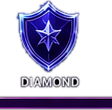
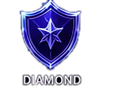
Member polish: clean rank badges, 2×2 stats bar, gold section headers
- Re-slice all 6 loyalty rank badges (bronze→VIP) tight to shield+label,
  cutting off the progress-bar line baked into the previous slices; the
  screen already renders its own loyalty progress bar, so the duplicate
  is removed. Badges normalized to uniform height with transparent top
  pad so labels bottom-align in the grid.
- Member home stats bar reflows to a 2×2 grid on phones (4-across on
  wide screens) so the Loyalty Points cell no longer runs off-screen.
- Gold ornamented section headers on the membership screen.

Claude-Session: https://claude.ai/code/session_01ADwVEMnuAZygKPZ7Pb8UgW

diff --git a/hitmans_vip_membership_app/src/styles.css b/hitmans_vip_membership_app/src/styles.css
@@ -3636,3 +3636,41 @@ button {
 .mem-penalty.trespass strong { color: #ffb060; }
 .mem-penalty span { color: #f4d6de; font-size: 13px; }
 .mem-penalty small { color: #c99; font-size: 11px; }
+
+/* ── Member home: live stats strip (design 5) ── */
+.member-statsbar {
+  display: grid; grid-template-columns: 1fr 1fr; gap: 6px; margin: 16px auto 0; max-width: 720px;
+  padding: 12px; border-radius: 16px; border: 1px solid rgba(176,107,255,.42);
+  background: linear-gradient(180deg, rgba(30,10,48,.92), rgba(12,4,22,.94));
+  box-shadow: 0 0 22px rgba(150,60,255,.22), inset 0 1px 0 rgba(255,255,255,.05);
+}
+@media (min-width: 620px) { .member-statsbar { grid-template-columns: repeat(4, 1fr); } }
+.msb-cell { display: flex; align-items: center; gap: 9px; background: rgba(255,255,255,.03); border: 1px solid rgba(176,107,255,.18);
+  border-radius: 12px; cursor: pointer; padding: 9px 10px; color: inherit; text-align: left; min-width: 0; }
+.msb-cell:not(button) { cursor: default; }
+.msb-ic { font-size: 20px; line-height: 1; flex: 0 0 auto; filter: drop-shadow(0 0 6px currentColor); }
+.msb-ic.rewards { color: #ff5ce0; }
+.msb-ic.status { color: #52ffa8; }
+.msb-ic.entry  { color: #c98bff; }
+.msb-ic.pts    { color: #ffd66b; }
+.msb-text { display: flex; flex-direction: column; min-width: 0; }
+.msb-label { font-size: 9px; letter-spacing: .1em; color: #9a86c8; font-weight: 800; white-space: nowrap; }
+.msb-val { font-size: 14px; font-weight: 900; color: #fff; white-space: nowrap; }
+.msb-val.pink { color: #ff8be6; } .msb-val.gold { color: #ffd66b; }
+.msb-val.ok { color: #52ffa8; } .msb-val.off { color: #ff7a92; }
+.msb-div { display: none; }
+
+/* ── Gold ornamented section headers (design 4) ── */
+.perks h3, .loyalty h3, .prefs h3 {
+  text-align: center; color: #ffd66b; text-transform: uppercase; letter-spacing: .14em;
+  font-size: 15px; font-weight: 900; margin: 0 0 14px;
+  text-shadow: 0 0 10px rgba(255,180,60,.5), 0 0 20px rgba(255,90,40,.22);
+  display: flex; align-items: center; justify-content: center; gap: 12px;
+}
+.perks h3::before, .perks h3::after,
+.loyalty h3::before, .loyalty h3::after,
+.prefs h3::before, .prefs h3::after {
+  content: ""; flex: 1 1 auto; max-width: 60px; height: 2px; border-radius: 2px;
+  background: linear-gradient(90deg, transparent, #b06bff);
+}
+.perks h3::after, .loyalty h3::after, .prefs h3::after { background: linear-gradient(90deg, #b06bff, transparent); }

diff --git a/hitmans_vip_membership_app/src/main.jsx b/hitmans_vip_membership_app/src/main.jsx
@@ -1600,6 +1600,41 @@ function HomeScreen({ role, session, navigate }) {
           </div>
         </AppPanel>
       </div>
+      {role.id === 'member' && <MemberStatsBar navigate={navigate} />}
+    </div>
+  );
+}
+
+// Live stats strip under the member menu (design 5): rewards, status, last entry,
+// loyalty points — all from the member's real record.
+function MemberStatsBar({ navigate }) {
+  const member = useMember();
+  if (!member) return null;
+  const tickets = member.tickets || 0;
+  const active = member.status !== 'expired' && (!member.expiresAt || Date.now() < member.expiresAt);
+  const lastEntry = member.verifiedAt ? fmtDate(member.verifiedAt) : '—';
+  const pts = (member.loyalty || 0).toLocaleString();
+  return (
+    <div className="member-statsbar">
+      <button type="button" className="msb-cell" onClick={() => navigate('membership')}>
+        <span className="msb-ic rewards" aria-hidden="true">★</span>
+        <span className="msb-text"><span className="msb-label">NIGHT REWARDS</span><b className="msb-val pink">{tickets} available</b></span>
+      </button>
+      <span className="msb-div" aria-hidden="true" />
+      <div className="msb-cell">
+        <span className="msb-ic status" aria-hidden="true">🛡</span>
+        <span className="msb-text"><span className="msb-label">VIP STATUS</span><b className={`msb-val ${active ? 'ok' : 'off'}`}>{active ? 'ACTIVE' : 'EXPIRED'}</b></span>
+      </div>
+      <span className="msb-div" aria-hidden="true" />
+      <div className="msb-cell">
+        <span className="msb-ic entry" aria-hidden="true">🗓</span>
+        <span className="msb-text"><span className="msb-label">LAST ENTRY</span><b className="msb-val">{lastEntry}</b></span>
+      </div>
+      <span className="msb-div" aria-hidden="true" />
+      <button type="button" className="msb-cell" onClick={() => navigate('membership')}>
+        <span className="msb-ic pts" aria-hidden="true">💎</span>
+        <span className="msb-text"><span className="msb-label">LOYALTY POINTS</span><b className="msb-val gold">{pts} PTS</b></span>
+      </button>
     </div>
   );
 }
